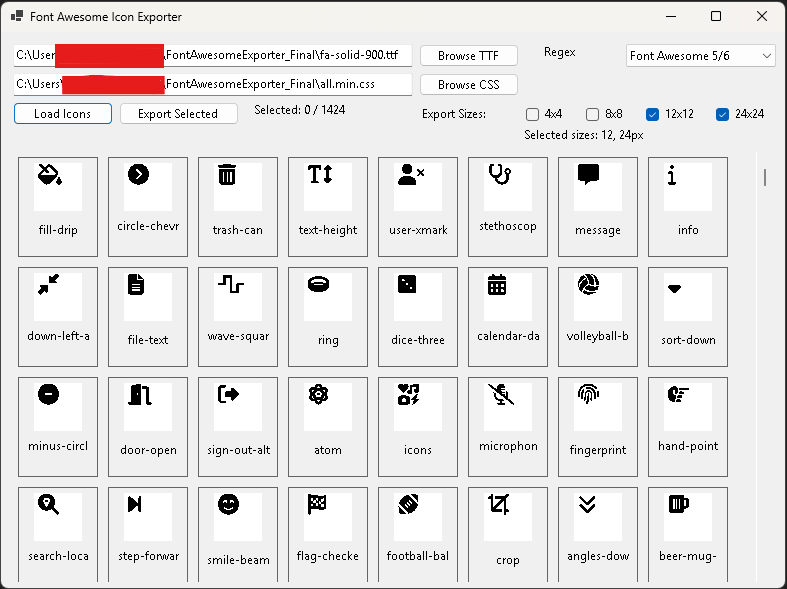
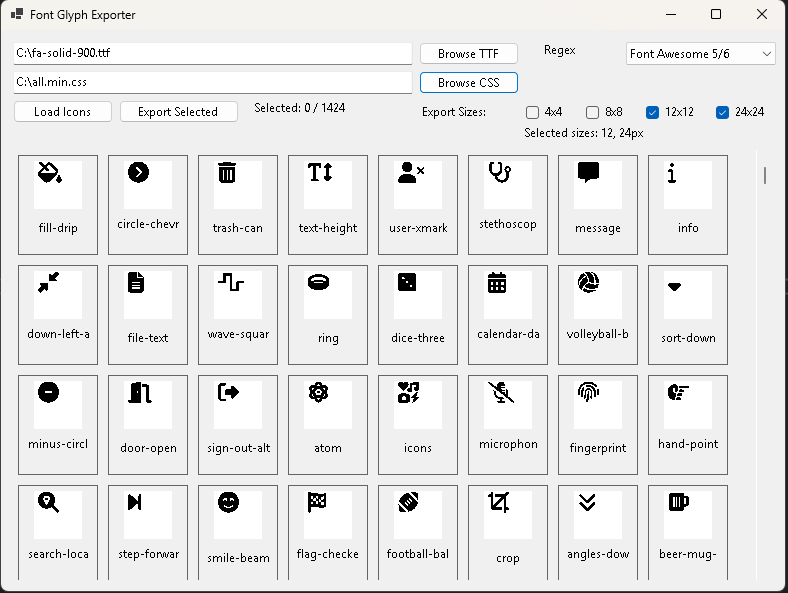
Name updates

diff --git a/MainForm.Designer.cs b/MainForm.Designer.cs
@@ -182,7 +182,7 @@ namespace FontGlyphExporter
             this.Controls.Add(this.lblCounter);
             this.Controls.Add(this.iconFlowPanel);
             this.Name = "MainForm";
-            this.Text = "Font Awesome Icon Exporter";
+            this.Text = "Font Glyph Exporter";
             this.pnlSizes.ResumeLayout(false);
             this.ResumeLayout(false);
             this.PerformLayout();
